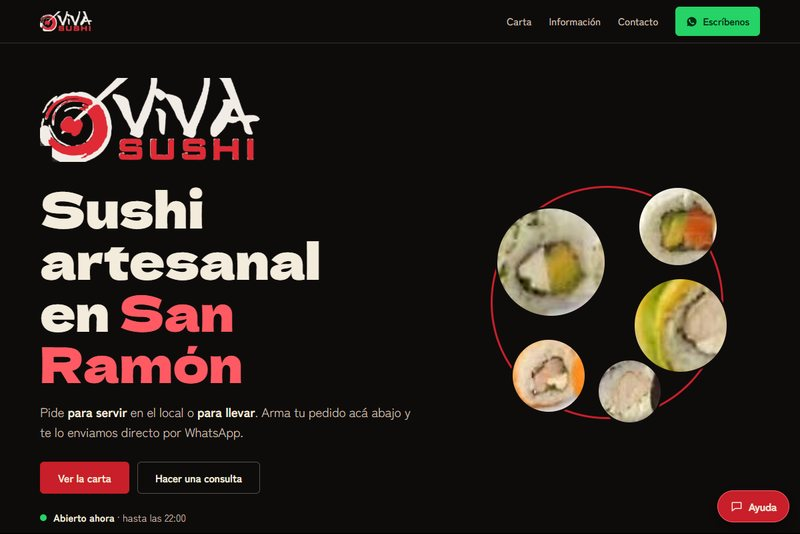
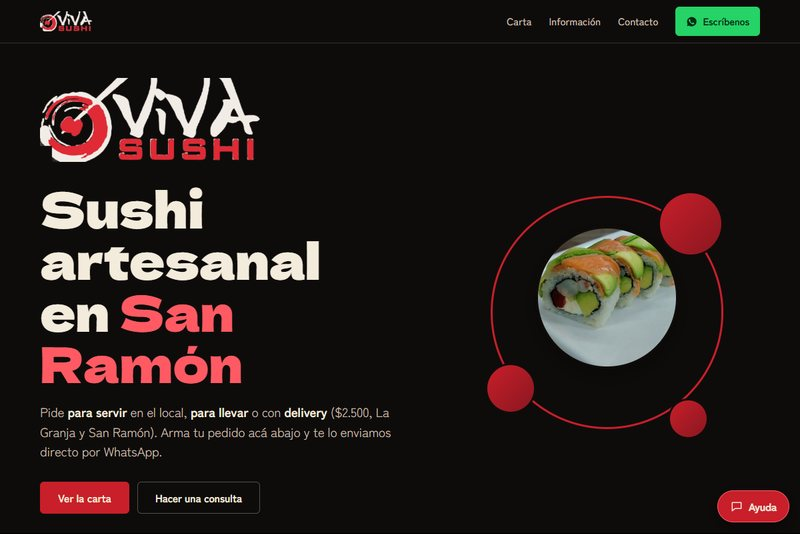
Portafolio: actualizo tarjeta de Viva Sushi (delivery, 6 medios de pago, asistente, legal) y refresco la captura

Changed region(s): [[0.5938, 0.3296, 0.9062, 0.839], [0.0312, 0.7491, 0.5, 0.9888], [0.5938, 0.5993, 0.625, 0.6592]]

diff --git a/index.html b/index.html
@@ -397,7 +397,7 @@ footer{border-top:1px solid var(--line);padding:32px 0;color:var(--muted);font-s
 <div class="card-body">
 <span class="tag tag--live"><span class="dot"></span>Cliente real · dominio propio</span>
 <h3>Viva Sushi</h3>
-<p>Página de pedidos de una sushería de San Ramón: carta de 153 productos con buscador, pedido armado en el celular que llega por WhatsApp ya escrito, aviso de abierto o cerrado y asistente de ayuda. Sin plataforma de terceros.</p>
+<p>Página de pedidos de una sushería de San Ramón: carta de 153 productos con buscador, para servir, para llevar o con delivery, 6 medios de pago, y el pedido llega por WhatsApp ya escrito. Con asistente de ayuda, términos y política de privacidad propios. Sin plataforma de terceros.</p>
 <a class="price" href="https://www.vivasushi.cl/" target="_blank" rel="noopener">Ver sitio en vivo →</a>
 </div>
 </div>
